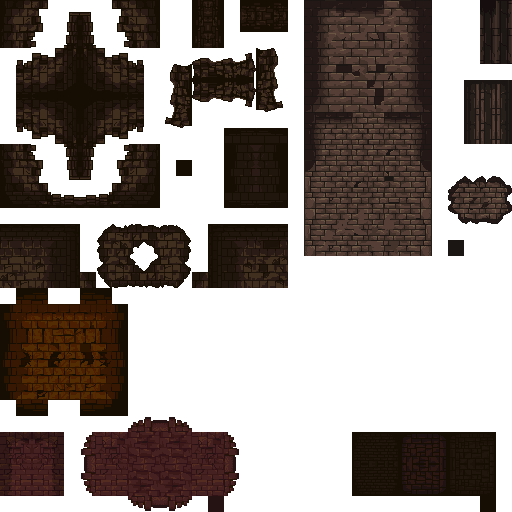
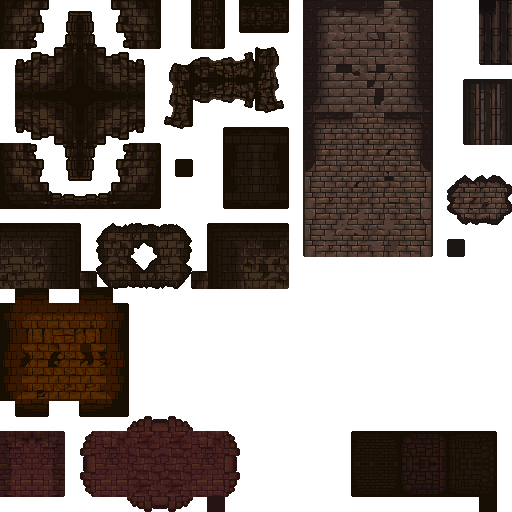
extrude tile sheets pixels

diff --git a/bin/game.cpp b/bin/game.cpp
@@ -111,31 +111,59 @@ typedef struct Line {
 } Line;
 
 typedef struct RectDetailed {
-    Vector2 tl;
-    Vector2 tr;
-    Vector2 br;
-    Vector2 bl;
+    Vector2 lt;  // left top
+    Vector2 rt;  // right top
+    Vector2 rb;  // right bot
+    Vector2 lb;  // left bot
+
+    Vector2 lm;  // left mid
+    Vector2 rm;  // right mid
+    Vector2 mt;  // mid top
+    Vector2 mb;  // mid bot
 
     Line left;
     Line top;
     Line right;
     Line bot;
+
+    Line midh;
+    Line midv;
 } RectDetailed;
 
-RectDetailed get_rect_detailed(Rectangle rect) {
-    Vector2 tl = {rect.x, rect.y};
-    Vector2 tr = {rect.x + rect.width, rect.y};
-    Vector2 br = {rect.x + rect.width, rect.y + rect.height};
-    Vector2 bl = {rect.x, rect.y + rect.height};
+Rectangle erode_rect(Rectangle rect, float val) {
     return {
-        .tl = tl,
-        .tr = tr,
-        .br = br,
-        .bl = bl,
-        .left = {tl, bl},
-        .top = {tl, tr},
-        .right = {tr, br},
-        .bot = {bl, br}};
+        .x = rect.x + val,
+        .y = rect.y + val,
+        .width = rect.width - 2.0f * val,
+        .height = rect.height - 2.0f * val};
+}
+
+RectDetailed get_rect_detailed(Rectangle rect) {
+    Vector2 lt = {rect.x, rect.y};
+    Vector2 rt = {rect.x + rect.width, rect.y};
+    Vector2 rb = {rect.x + rect.width, rect.y + rect.height};
+    Vector2 lb = {rect.x, rect.y + rect.height};
+
+    Vector2 lm = {rect.x, rect.y + 0.5f * rect.height};
+    Vector2 rm = {rect.x + rect.width, rect.y + 0.5f * rect.height};
+    Vector2 mt = {rect.x + 0.5f * rect.width, rect.y};
+    Vector2 mb = {rect.x + 0.5f * rect.width, rect.y + rect.height};
+    return {
+        .lt = lt,
+        .rt = rt,
+        .rb = rb,
+        .lb = lb,
+        .lm = lm,
+        .rm = rm,
+        .mt = mt,
+        .mb = mb,
+        .left = {lt, lb},
+        .top = {lt, rt},
+        .right = {rt, rb},
+        .bot = {lb, rb},
+        .midh = {lm, rm},
+        .midv = {mt, mb},
+    };
 }
 
 Vector2 get_rect_center(Rectangle rect) {
@@ -1925,7 +1953,7 @@ class Game {
         triangles.clear();
 
         RectDetailed screen = this->camera.get_screen_rect_detailed();
-        float diag = Vector2Distance(screen.tl, screen.br);
+        float diag = Vector2Distance(screen.lt, screen.rb);
 
         // TODO: create and use Eyes component instead of light for this
         Light light = this->player->get_light();
@@ -1975,49 +2003,49 @@ class Game {
                         triangles.push_back({start.b, end.a, end.b});
                         break;
                     case LEFT | BOT:
-                        triangles.push_back({start.a, end.a, screen.bl});
-                        triangles.push_back({start.b, end.b, screen.bl});
-                        triangles.push_back({start.a, start.b, screen.bl});
+                        triangles.push_back({start.a, end.a, screen.lb});
+                        triangles.push_back({start.b, end.b, screen.lb});
+                        triangles.push_back({start.a, start.b, screen.lb});
                         break;
                     case LEFT | TOP:
-                        triangles.push_back({start.a, end.a, screen.tl});
-                        triangles.push_back({start.b, end.b, screen.tl});
-                        triangles.push_back({start.a, start.b, screen.tl});
+                        triangles.push_back({start.a, end.a, screen.lt});
+                        triangles.push_back({start.b, end.b, screen.lt});
+                        triangles.push_back({start.a, start.b, screen.lt});
                         break;
                     case RIGHT | TOP:
-                        triangles.push_back({start.a, end.a, screen.tr});
-                        triangles.push_back({start.b, end.b, screen.tr});
-                        triangles.push_back({start.a, start.b, screen.tr});
+                        triangles.push_back({start.a, end.a, screen.rt});
+                        triangles.push_back({start.b, end.b, screen.rt});
+                        triangles.push_back({start.a, start.b, screen.rt});
                         break;
                     case RIGHT | BOT:
-                        triangles.push_back({start.a, end.a, screen.br});
-                        triangles.push_back({start.b, end.b, screen.br});
-                        triangles.push_back({start.a, start.b, screen.br});
+                        triangles.push_back({start.a, end.a, screen.rb});
+                        triangles.push_back({start.b, end.b, screen.rb});
+                        triangles.push_back({start.a, start.b, screen.rb});
                         break;
                     case LEFT | RIGHT:
                         if (light.position.y < start.a.y) {
-                            triangles.push_back({start.a, end.a, screen.bl});
-                            triangles.push_back({start.a, start.b, screen.bl});
-                            triangles.push_back({start.b, screen.br, screen.bl});
-                            triangles.push_back({start.b, end.b, screen.br});
+                            triangles.push_back({start.a, end.a, screen.lb});
+                            triangles.push_back({start.a, start.b, screen.lb});
+                            triangles.push_back({start.b, screen.rb, screen.lb});
+                            triangles.push_back({start.b, end.b, screen.rb});
                         } else {
-                            triangles.push_back({start.a, end.a, screen.tl});
-                            triangles.push_back({start.a, start.b, screen.tl});
-                            triangles.push_back({start.b, screen.tr, screen.tl});
-                            triangles.push_back({start.b, end.b, screen.tr});
+                            triangles.push_back({start.a, end.a, screen.lt});
+                            triangles.push_back({start.a, start.b, screen.lt});
+                            triangles.push_back({start.b, screen.rt, screen.lt});
+                            triangles.push_back({start.b, end.b, screen.rt});
                         }
                         break;
                     case TOP | BOT:
                         if (light.position.x < start.a.x) {
-                            triangles.push_back({start.a, end.a, screen.tr});
-                            triangles.push_back({start.a, start.b, screen.tr});
-                            triangles.push_back({start.b, screen.br, screen.tr});
-                            triangles.push_back({start.b, end.b, screen.br});
+                            triangles.push_back({start.a, end.a, screen.rt});
+                            triangles.push_back({start.a, start.b, screen.rt});
+                            triangles.push_back({start.b, screen.rb, screen.rt});
+                            triangles.push_back({start.b, end.b, screen.rb});
                         } else {
-                            triangles.push_back({start.a, end.a, screen.tl});
-                            triangles.push_back({start.a, start.b, screen.tl});
-                            triangles.push_back({start.b, screen.bl, screen.tl});
-                            triangles.push_back({start.b, end.b, screen.bl});
+                            triangles.push_back({start.a, end.a, screen.lt});
+                            triangles.push_back({start.a, start.b, screen.lt});
+                            triangles.push_back({start.b, screen.lb, screen.lt});
+                            triangles.push_back({start.b, end.b, screen.lb});
                         }
                         break;
                 }

diff --git a/tools/extrude_pixels.py b/tools/extrude_pixels.py
@@ -1,0 +1,78 @@
+import argparse
+from typing import List
+from pathlib import Path
+from PIL import Image
+import numpy as np
+
+
+def _parse_args():
+    args = argparse.ArgumentParser()
+    args.add_argument("--inp-dir", type=str)
+    args.add_argument("--out-dir", type=str)
+
+    return args.parse_args()
+
+def _get_image_file_paths(dir: Path) -> List[Path]:
+    file_paths = []
+    for file_path in dir.iterdir():
+        if file_path.suffix == ".png":
+            file_paths.append(file_path)
+    
+    return file_paths
+
+
+
+def main():
+    args = _parse_args()
+    inp_dir = Path(args.inp_dir)
+    out_dir = Path(args.out_dir)
+    assert inp_dir != out_dir
+    out_dir.mkdir(exist_ok=True, parents=True)
+
+    inp_file_paths = _get_image_file_paths(inp_dir)
+
+    for i_file_path, file_path in enumerate(inp_file_paths):
+        image = Image.open(file_path)
+        inp_pixels = np.array(image)
+        out_pixels = np.copy(inp_pixels)
+        out_file_path = out_dir / file_path.name
+
+        if inp_pixels.shape[2] == 3:
+            image.save(out_file_path)
+            continue
+
+        n_rows, n_cols, *_ = inp_pixels.shape
+
+        new_color = np.zeros((4, ), dtype=np.float32)
+        steps = ((-1, 0), (0, -1), (1, 0), (0, 1))
+        for i in range(n_rows):
+            for j in range(n_cols):
+                a = inp_pixels[i, j, 3]
+                if a == 0:
+                    new_color *= 0
+                    n_new_colors = 0
+                    for sx, sy in steps:
+                        si = i + sy
+                        sj = j + sx
+                        if si < 0 or si >= n_rows:
+                            continue
+                        if sj < 0 or sj >= n_cols:
+                            continue
+                        if inp_pixels[si, sj, 3] > 0:
+                            new_color += inp_pixels[si, sj, :]
+                            n_new_colors += 1
+
+                    if n_new_colors == 0:
+                        continue
+                    
+                    new_color /= n_new_colors
+
+                    out_pixels[i, j, :] = new_color.astype(np.uint8)
+
+        new_image = Image.fromarray(out_pixels)
+        new_image.save(out_file_path)
+        print(f"{i_file_path}/{len(inp_file_paths)}")
+
+
+if __name__ == "__main__":
+    main()
